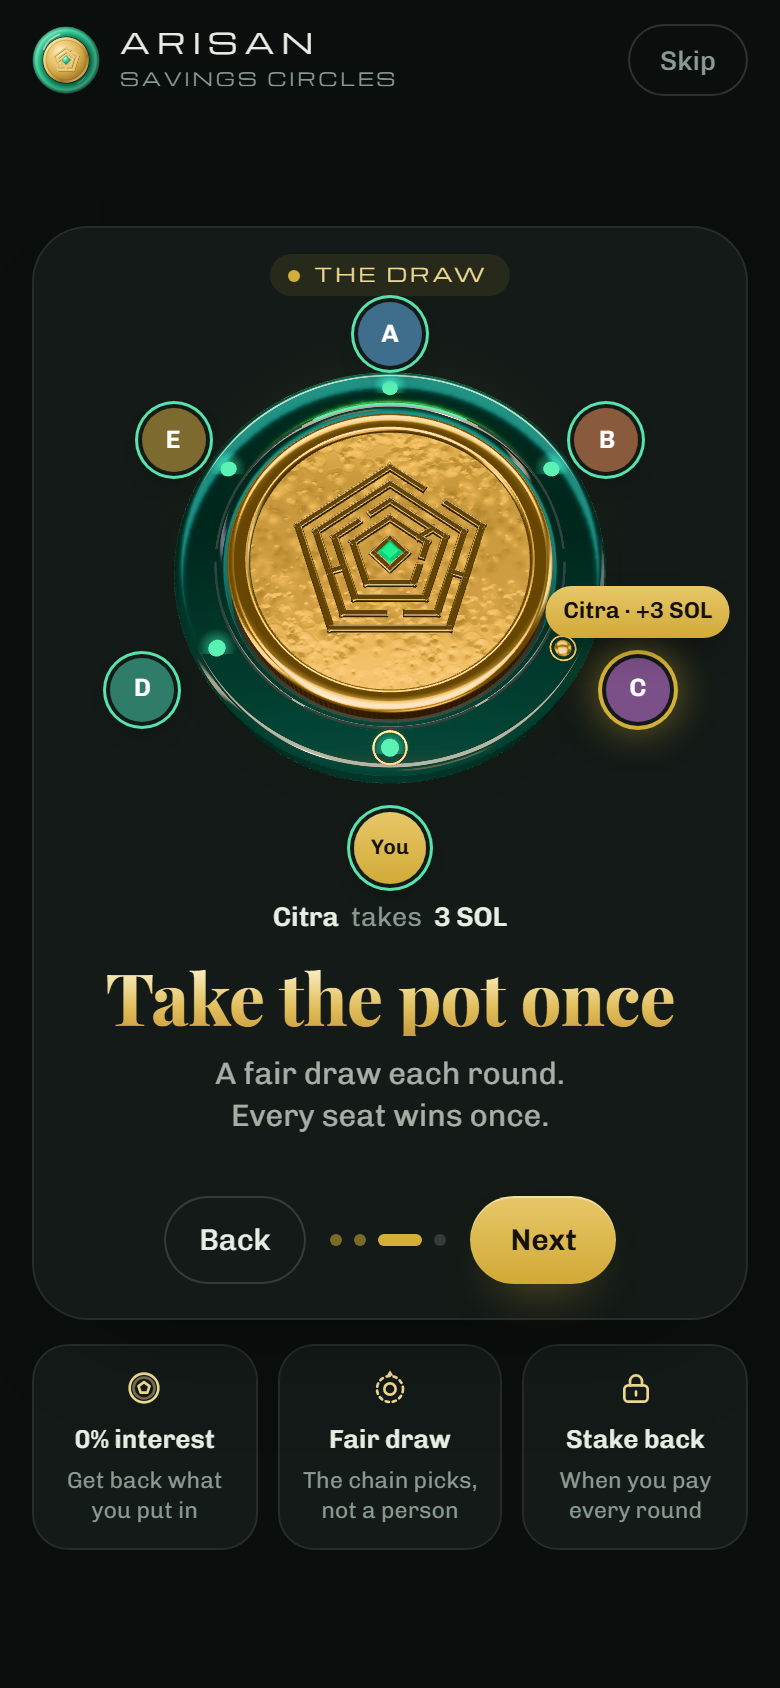
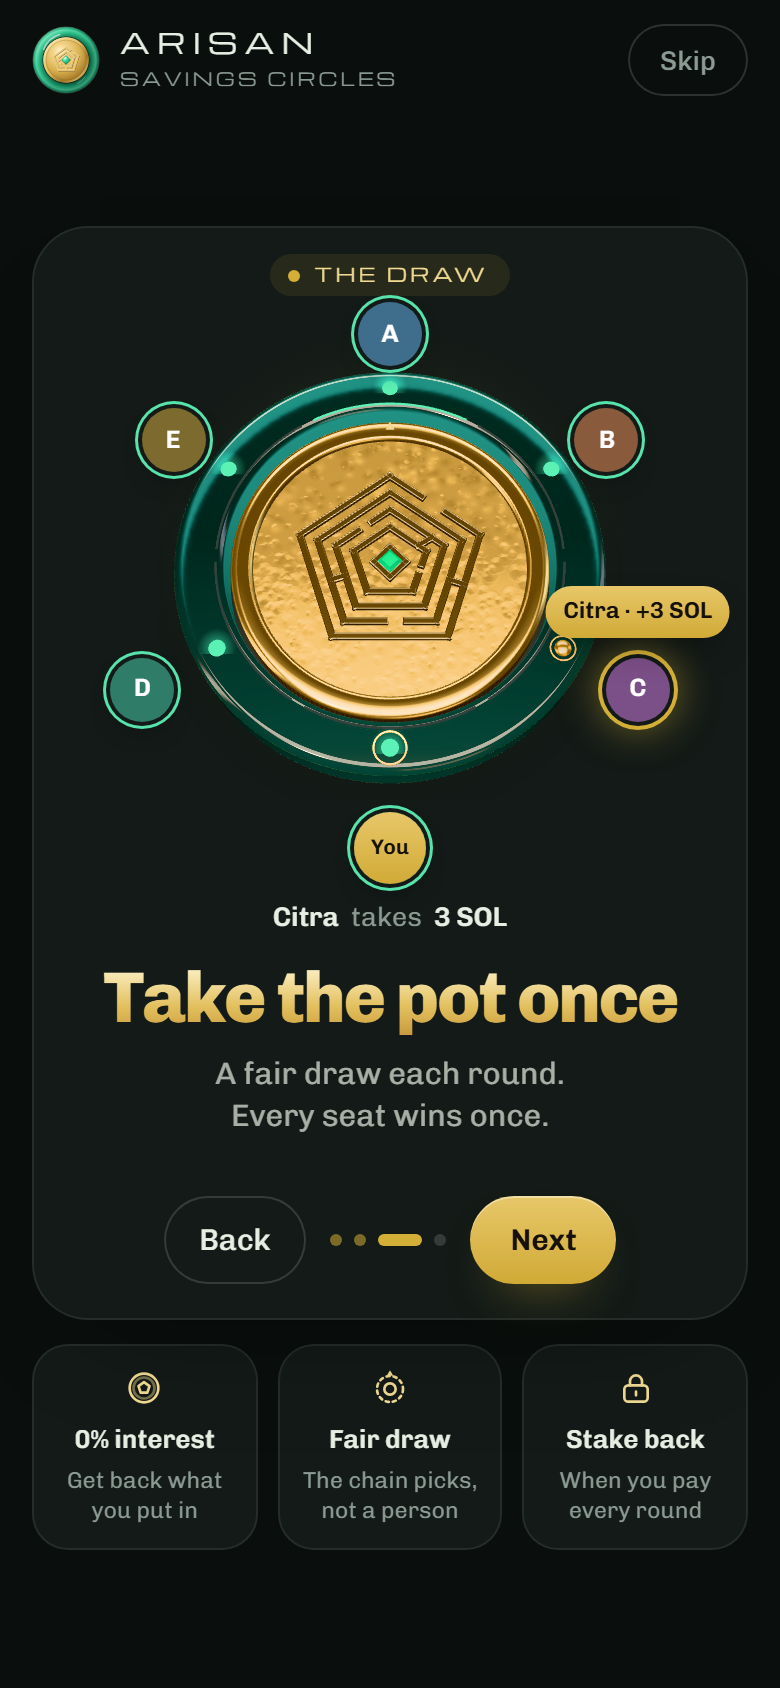
bezel: the intro's headlines in the app's own Chivo
The serif headline is out: the slides now use Chivo at its heaviest, in
gold, like the rest of the app, and Playfair Display no longer loads.

Changed region(s): [[0.2769, 0.2156, 0.7077, 0.4313], [0.1231, 0.5545, 0.8615, 0.6161]]

diff --git a/src/app/layout.tsx b/src/app/layout.tsx
@@ -1,5 +1,5 @@
 import type { Metadata, Viewport } from "next";
-import { Chivo, Chivo_Mono, Michroma, Playfair_Display } from "next/font/google";
+import { Chivo, Chivo_Mono, Michroma } from "next/font/google";
 import { ThemeProvider } from "@/components/providers/theme-provider";
 import { SolanaProvider } from "@/components/providers/solana-provider";
 import { MobileWalletRegistration } from "@/components/providers/mobile-wallet-registration";
@@ -25,13 +25,6 @@ const michroma = Michroma({
   variable: "--font-michroma",
   subsets: ["latin"],
   weight: "400",
-});
-
-// The intro's headlines: a high-contrast serif, like the inscription on Hamza's end card
-const playfair = Playfair_Display({
-  variable: "--font-display",
-  subsets: ["latin"],
-  weight: "800",
 });
 
 export const metadata: Metadata = {
@@ -76,7 +69,7 @@ export default function RootLayout({
     <html
       lang="en"
       suppressHydrationWarning
-      className={`${chivo.variable} ${chivoMono.variable} ${michroma.variable} ${playfair.variable}`}
+      className={`${chivo.variable} ${chivoMono.variable} ${michroma.variable}`}
     >
       <head>
         {/* Before first paint: does this device draw the 3D dial? */}

diff --git a/src/app/globals.css b/src/app/globals.css
@@ -1120,12 +1120,12 @@
     background: var(--gold);
   }
 
+  /* The app's own Chivo, at its heaviest, in gold */
   .bz-intro-title {
-    font-family: var(--font-display), Georgia, serif;
     font-size: 36px;
     line-height: 1.04;
     font-weight: 800;
-    letter-spacing: -0.012em;
+    letter-spacing: -0.035em;
     text-wrap: balance;
     color: var(--gold-hi);
     background: var(--intro-title);

diff --git a/docs/bezel/candidate.md b/docs/bezel/candidate.md
@@ -15,7 +15,7 @@ Design canvases (private): directions at https://claude.ai/artifact/17bwXGTQk7Ad
 - Copy says "circle". Toasts are one title, one quiet line and an Explorer link.
 - The app bar has round bezel buttons for Back and theme, the ARISAN wordmark in the dial's small caps on Home, and a Connect chip with a wallet icon. The tab bar is a floating dock: Home (the coin and its pentagon) and Join (an invite ticket) either side of Create, a gold coin set into the dock.
 - Join leads with a dial that saves you a lit seat (then shows the found circle with your seat), dot placeholders instead of sample letters, a lookup that runs on the eighth character, and a short "how joining works" track.
-- The first-visit intro explains Arisan in four slides, laid out like Hamza's PurrSpeak onboarding: an eyebrow, the 3D dial with six people seated round it, a serif headline (Playfair Display) with one concrete line, Back, dots and Next in a card, and three facts underneath (0% interest, a fair draw, the stake back). The people take their seats; each pays in and a coin flies into the pot (6 × 0.5 = 3 SOL); tap Draw and a light runs round the table to the winner, whose coin flips; on the last slide a demo wallet asks you to approve round two. It follows the app theme, works by swipe, buttons or keys, rests on each slide's point with reduced motion, and hands its warmed-up dial to the page underneath.
+- The first-visit intro explains Arisan in four slides, laid out like Hamza's PurrSpeak onboarding: an eyebrow, the 3D dial with six people seated round it, a heavy gold headline (the app's Chivo) with one concrete line, Back, dots and Next in a card, and three facts underneath (0% interest, a fair draw, the stake back). The people take their seats; each pays in and a coin flies into the pot (6 × 0.5 = 3 SOL); tap Draw and a light runs round the table to the winner, whose coin flips; on the last slide a demo wallet asks you to approve round two. It follows the app theme, works by swipe, buttons or keys, rests on each slide's point with reduced motion, and hands its warmed-up dial to the page underneath.
 
 **Every program action, end to end**
 
